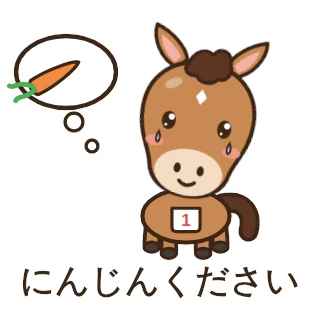
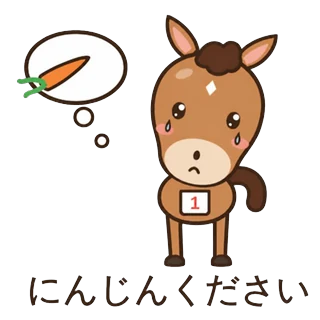
スタンプ: こまめを描き直し（v3）

Changed region(s): [[0.0625, 0.0312, 0.9688, 0.9688], [0.0, 0.0938, 0.4062, 0.5]]

diff --git a/src/app/core/utils/stamp-packs.generated.ts b/src/app/core/utils/stamp-packs.generated.ts
@@ -5,7 +5,7 @@ export const STAMP_PACK_DATA: StampPack[] = /* BEGIN DATA */ [
   {
     "packId": "komame",
     "name": "こまめ",
-    "version": 2,
+    "version": 3,
     "stamps": [
       {
         "id": "hihiin",

diff --git a/stamps/komame/README.md b/stamps/komame/README.md
@@ -5,10 +5,11 @@ ReCuDe Connections の全テナント共通スタンプパック（2つ目）。
 v2 で「ゆい」と重なる4種（はじめまして・よろしくお願いします・ありがとうございます・了解です）を外し、
 ヒヒーン！／ゴール！／にんじんください／ひとやすみ に入れ替えた。「参加します！」は「参戦します！」（id: sansen）に変更した。外した4種は `_old/` に残している。
 
-- `webp/` … 320×320 透過 WebP（管理 A2 からアップロードする本番用）
-- `png/` … 同じ画像の透過 PNG
-- `svg/` … ベクター原稿（文字は M PLUS Rounded 1c 800）
-- `pack.json` … stampPacks 登録用の案（packId: komame, version 2）
-- `gen_koma.py` … 生成スクリプト
+2026-10-12 に絵を描き直した（手描き風の新しい原稿 816×816 PNG）。原稿は背景に透過のチェック柄が描き込まれていたため、背景を抜いて透過にした。
+前の版の SVG 原稿と生成スクリプト（gen_koma.py）は、絵と合わなくなったため外した（git の履歴に残っている）。
+
+- `webp/` … 320×320 透過 WebP（`npm run stamps:sync` で配信用に取り込む）。8枚とも同じ範囲・同じ縮尺で縮小している
+- `png/` … 背景を抜いた原稿（816×816 透過 PNG）
+- `pack.json` … パックの定義（version は `stamps:sync` が上げる）
 
 色: 線・文字 #3d2619 / 毛色 #c98952 / 鼻まわり #f4dcc1 / たてがみ #5c3522 / 赤 #e2504a / 金 #f3c24f
